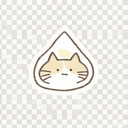
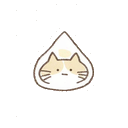
灵感备忘全量优化：贴纸透明化 + 未来日期拦截 + 心情持久化 + 浅绿FAB + 多贴纸 + 书翻开效果
# 一、BUG 修复
1. 未来日期权限：noteCalendarHTML 标记 ds>today 的日期为 .future，openMoodPicker 入口加 if(date>isoToday()) return，
   点击处理判断 classList.contains('future') 直接 return。未来日期不再可设置心情。
2. 心情持久化：bootstrap 中 data=cloudData 后，从 localStorage[CONFIG.businessKey] 合并 __noteMoods 兜底，
   防止 saveCloud 800ms 防抖期内设置的心情在刷新后被云端旧数据覆盖丢失。

# 二、视觉与功能优化
3. 贴纸背景透明化：6 张 mood-*.png 经 flood-fill 边界种子去底色（threshold 22，多参考色处理渐变），
   角点 alpha=0，中心 alpha=255，与页面底色自然融合。
4. 列表卡片贴纸放大：.jn-wk-cat 从 16px 扩到 30px，新增 .jn-wk-stickers flex column 容器将贴纸与拍立得照片
   竖向堆叠（避免与文字挤占），并支持 jnWeekStickerHTML 按 id 在 SHOP_ICON_MAP 里轮换（用户可设置 stickerId 覆盖），
   偶数 id 无图时再叠一个 .jn-wk-stk2 小贴纸，整体有手账随手贴感。
5. FAB 改浅绿：背景 #D4E0CE + 同色系边框 #9DB79F + 深绿字 #4A5E4A + 浅绿阴影，沿用项目既有 #7A9A7E 系。
6. 书翻开效果增强：box-shadow 增加左侧负 y 偏移层（前一页填满顶部空隙）+ 顶/底各 3 层米黄书脊边缘，
   移动端 22 层 / 桌面 26 层柔和外阴影。右封皮仍为低饱和浅绿。
7. 贴纸透明 CSS 配合：mood-corner 与 jn-wk-cat 均为 object-fit:contain，透明角与页面底色无缝融合。

# 三、回归
- 之前的小情绪面板、详情页日记字体（Kaiti）、页脚虚线沉底、底部返回隐藏均无影响
- FAB 仍为 position:fixed 右下 88px（nav-h 72 + 16），滚动不跟随

# 四、验证（Playwright 390x844, ?wb=1, 拦截云端写）
- FAB bg=rgb(212,224,206) 浅绿 ✓
- 日历 28 天未来日期标记 .future，1 天 today ✓
- 未来日期点击不打开心情选择器 ✓
- 过去日期点选心情：贴纸 41x41 填满格子、日期数字隐藏 ✓
- 时间轴贴纸 30x30px，.jn-wk-stickers flex-direction:column ✓
- 详情 .nd-sheet box-shadow 22 层，含绿封皮 rgb(122,154,126) + 顶边 0 -1px + 左上 -1px -2px ✓
- 云端 -g1 复核：test 日期 2026-09-01 不在云端，__noteMoods 内仅含 2026-09-02 sleepy（用户手机真实数据）→ 无测试污染

diff --git a/index.html b/index.html
@@ -1238,6 +1238,7 @@
   .jn-cal-day.sel { background: rgba(122,154,126,.14); color: #4E5E50; font-weight: 500; }
   .jn-cal-day.sel::after { content:""; position:absolute; inset:3px; border-radius:50%; border:1px dashed rgba(122,154,126,.7); }
   .jn-cal-day.other { color: transparent; pointer-events: none; }
+  .jn-cal-day.future { pointer-events: none; opacity: 0.32; color: #B8A99A; }
   .jn-cal-day.has-mood { border-radius: 12px; }
   .jn-cal-day .mood-corner { position:absolute; inset:0; width:100%; height:100%; object-fit:contain; pointer-events:none; }
   /* 心情选择面板 */
@@ -1258,10 +1259,10 @@
     background: transparent; border-radius: 999px; color: #9C8B7A; font-size: 12px; cursor: pointer; }
   /* 悬浮新建 */
   .jn-fab { position: fixed; right: 18px; bottom: calc(var(--nav-h) + 16px + env(safe-area-inset-bottom)); z-index: 40;
-    width: 52px; height: 52px; border-radius: 50%; border: 1px solid #D8CBB4; background: #FBF8F1;
-    color: #5C4A3A; display: grid; place-items: center; box-shadow: 0 3px 10px rgba(61,50,38,.12);
+    width: 52px; height: 52px; border-radius: 50%; border: 1px solid #9DB79F; background: #D4E0CE;
+    color: #4A5E4A; display: grid; place-items: center; box-shadow: 0 3px 10px rgba(74,94,74,.16);
     cursor: pointer; transition: transform .12s, box-shadow .15s; }
-  .jn-fab:active { transform: scale(.92); box-shadow: 0 1px 5px rgba(61,50,38,.10); }
+  .jn-fab:active { transform: scale(.92); box-shadow: 0 1px 5px rgba(74,94,74,.12); }
   @media (min-width: 720px){ .jn-fab { right: 26px; bottom: calc(var(--nav-h) + 20px + env(safe-area-inset-bottom)); } }
 
   /* ============================================================
@@ -1303,8 +1304,11 @@
   .jn-wk-thumb { flex:0 0 58px; width:58px; height:46px; object-fit:cover; border-radius:2px;
     background:#fff; padding:3px 3px 9px; border:1px solid #E8DFD0;
     box-shadow:0 2px 5px rgba(92,74,58,.10); margin-top:2px; transform:rotate(-1.2deg); }
-  .jn-wk-cat { flex:0 0 16px; width:16px; height:16px; object-fit:contain; margin-top:3px;
-    filter:drop-shadow(1px 1px 2px rgba(92,74,58,.10)); }
+  .jn-wk-stickers { flex:0 0 auto; display:flex; flex-direction:column; align-items:center; gap:6px; margin-top:2px; }
+  .jn-wk-cat { width:30px; height:30px; object-fit:contain;
+    filter:drop-shadow(1px 1px 2px rgba(92,74,58,.10));
+    transform:rotate(calc(var(--rot,0) * 1deg)); }
+  .jn-wk-stk2 { width:22px; height:22px; object-fit:contain; opacity:.85; transform:rotate(var(--rot2,4deg)); filter:drop-shadow(1px 1px 1.5px rgba(92,74,58,.08)); }
   .jn-wk-tag { flex:0 0 auto; font-size:10.5px; color:#9C8B7A; background:#F0E8DC; border-radius:5px; padding:1px 7px; }
   .jn-wk-fam { flex:0 0 auto; font-size:10.5px; color:#9C8B7A; }
   .jn-wk-acts { flex:0 0 auto; display:flex; gap:2px; margin-left:2px; }
@@ -1329,20 +1333,36 @@
     animation:ndFlip .5s cubic-bezier(.36,.06,.2,1) both;
     border-radius:0 14px 14px 0;
     box-shadow:
+      /* 左：前一页米黄书页（多页叠加 + 负 y 偏移填满顶部空隙） */
       -1px 0 0 #F0E7D4, -2px 0 0 #EAE0CB, -3px 0 0 #E4D9C2, -4px 0 0 #DED2B9,
+      -1px -2px 0 #F0E7D4, -2px -3px 0 #EAE0CB, -3px -4px 0 #E4D9C2,
       -7px 3px 12px rgba(61,50,38,.07),
+      /* 右：内页厚度 */
       1px 0 0 #F4EDDD, 2px 0 0 #EFE6D3, 3px 0 0 #E9DEC8, 4px 0 0 #E3D7BE, 5px 0 0 #DDD0B5,
+      /* 右：低饱和浅绿封皮边缘 */
       6px 0 0 #A9BFA8, 7px 0 0 #93AE97, 8px 0 0 #7A9A7E, 9px 0 0 #6E8C72,
+      /* 顶/底：书脊边缘（米黄） */
+      0 -1px 0 #F0E7D4, 0 -2px 0 #EAE0CB, 0 -3px 0 #E4D9C2,
+      0 1px 0 #F0E7D4, 0 2px 0 #EAE0CB, 0 3px 0 #E4D9C2,
+      /* 柔和外阴影 */
       16px 12px 34px rgba(61,50,38,.15),
       inset -10px 0 14px -10px rgba(61,50,38,.10); }
   @media (min-width:720px){
     .nd-overlay { align-items:center; padding:30px 24px 30px 30px; }
     .nd-sheet { height:88vh; max-width:620px; border-radius:0 16px 16px 0; overflow:hidden;
       box-shadow:
+        /* 左：前一页米黄书页（多页叠加 + 负 y 填满顶部空隙） */
         -1px 0 0 #F0E7D4, -2px 0 0 #EAE0CB, -3px 0 0 #E4D9C2, -4px 0 0 #DED2B9,
+        -1px -2px 0 #F0E7D4, -2px -3px 0 #EAE0CB, -3px -4px 0 #E4D9C2,
         -9px 4px 16px rgba(61,50,38,.08),
+        /* 右：内页厚度 */
         1px 0 0 #F4EDDD, 2px 0 0 #EFE6D3, 3px 0 0 #E9DEC8, 4px 0 0 #E3D7BE, 5px 0 0 #DDD0B5,
+        /* 右：低饱和浅绿封皮边缘 */
         6px 0 0 #A9BFA8, 7px 0 0 #93AE97, 8px 0 0 #7A9A7E, 9px 0 0 #6E8C72,
+        /* 顶/底：书脊边缘 */
+        0 -1px 0 #F0E7D4, 0 -2px 0 #EAE0CB, 0 -3px 0 #E4D9C2,
+        0 1px 0 #F0E7D4, 0 2px 0 #EAE0CB, 0 3px 0 #E4D9C2,
+        /* 柔和外阴影 */
         20px 16px 54px rgba(61,50,38,.16),
         inset -12px 0 16px -12px rgba(61,50,38,.10); }
   }
@@ -3491,11 +3511,11 @@ function jnWeekEntryHTML(m, x){
   const familyTag = creatorRole === "family" ? `<span class="jn-wk-fam">\u5bb6\u5c5e</span>` : '';
   const pin = canEdit ? `<button class="pin-btn js-pin ${x.pinned?'on':''}" data-id="${x.id}" title="\u6536\u85cf">${icon("star",13)}</button>` : '';
   const del = canEdit ? `<button class="del js-del" data-id="${x.id}" title="\u5220\u9664">${icon("trash",13)}</button>` : '';
-  const cat = noteCatPNG(x.category, x.mood, Number(x.id)||0);
   const body = (x.content || x.note || '').trim();
   const flat = body.replace(/\n+/g, ' ').trim();
   const sum = flat ? (flat.length > 64 ? flat.slice(0, 64) + '\u2026' : flat) : '';
   const tags = [x.category, x.mood].filter(Boolean).slice(0,1).map(s=>`<span class="jn-wk-tag">${esc(s)}</span>`).join('');
+  const stk = jnWeekStickerHTML(x);
   return `<div class="jn-wk-entry" data-note-open="${x.id}" data-note-key="${attr(m.key)}">`
     + `<span class="jn-wk-dot"></span>`
     + `<div class="jn-wk-main">`
@@ -3503,9 +3523,30 @@ function jnWeekEntryHTML(m, x){
       + (sum ? `<div class="jn-wk-sum">${esc(sum)}</div>` : '')
       + `<div class="jn-wk-meta">${tags}${familyTag}</div>`
     + `</div>`
-    + (x.image ? `<img class="jn-wk-thumb" src="${attr(x.image)}" alt="" loading="lazy">` : '')
-    + (cat.src ? `<img class="jn-wk-cat" src="${cat.src}" alt="">` : '')
+    + `<div class="jn-wk-stickers">`
+      + (x.image ? `<img class="jn-wk-thumb" src="${attr(x.image)}" alt="" loading="lazy">` : '')
+      + stk
+    + `</div>`
     + `<span class="jn-wk-acts">${pin}${del}</span></div>`;
+}
+
+/* 时间轴贴纸：优先用该笔记已选贴纸（stickerId），否则按 id 在系统贴纸里轮换，模拟手账随手贴 */
+function jnWeekStickerHTML(x){
+  const ids = Object.keys(SHOP_ICON_MAP);
+  if(!ids.length) return '';
+  const id = Number(x.id) || 0;
+  const chosen = x.stickerId && SHOP_ICON_MAP[x.stickerId] ? x.stickerId : ids[id % ids.length];
+  const main = SHOP_ICON_MAP[chosen] || SHOP_ICON_MAP[ids[0]];
+  const rot = noteRot(id, -8, 8);
+  let html = `<img class="jn-wk-cat" style="--rot:${rot}" src="${attr(main)}" alt="">`;
+  if(!x.image && (id % 3 === 0)){
+    const second = SHOP_ICON_MAP[ids[(id + 7) % ids.length]];
+    if(second && second !== main){
+      const rot2 = noteRot(id + 11, -6, 10);
+      html += `<img class="jn-wk-stk2" style="--rot2:${rot2}" src="${attr(second)}" alt="">`;
+    }
+  }
+  return html;
 }
 
 function journalNoteHTML(m, x, acts, recAttrs, familyTag, customBlock){
@@ -3597,8 +3638,9 @@ function noteCalendarHTML(key, items){
   for(let day=1; day<=daysInMonth; day++){
     const ds = `${y}-${String(m+1).padStart(2,'0')}-${String(day).padStart(2,'0')}`;
     const isToday = ds === today;
+    const isFuture = ds > today;
     const mood = moods[ds];
-    const cls = ['jn-cal-day', isToday?'today':'', ds===_noteSelDate?'sel':'', mood?'has-mood':''].filter(Boolean).join(' ');
+    const cls = ['jn-cal-day', isToday?'today':'', ds===_noteSelDate?'sel':'', mood?'has-mood':'', isFuture?'future':''].filter(Boolean).join(' ');
     grid += `<div class="${cls}" data-cal-d="${ds}">${mood?`<img class="mood-corner" src="${mood.src}" alt="">`:day}</div>`;
   }
   const count = items.length;
@@ -3615,6 +3657,7 @@ function setNoteMood(date, mood){
   persist();
 }
 function openMoodPicker(key, date){
+  if(date > isoToday()) return;   // 未来日期禁止设置心情
   _noteSelDate = date;
   const moods = noteMoods();
   const cur = (data.__noteMoods || {})[date];
@@ -3937,7 +3980,7 @@ function wireModule(key){
   const add=$("#btn-add"); if(add) add.onclick=()=>{ const am=modOf(key); if(am && am.type==='note'){ openNoteDetail(key, null, true); } else { openEditor(key,null); } };
   if(m.type==="note"){
     $("#screen").querySelectorAll(".jn-cal-day[data-cal-d]").forEach(el=>{
-      el.onclick = () => openMoodPicker(key, el.dataset.calD);
+      el.onclick = () => { if(el.classList.contains('future')) return; openMoodPicker(key, el.dataset.calD); };
     });
   }
 
@@ -6844,6 +6887,15 @@ async function bootstrap() {
   }
   if(cloudData) {
     data = cloudData;
+    // 心情持久化兜底：本地刚设的心情（saveCloud 800ms 防抖期间）若还未来得及上云，
+    // 这里把 localStorage 里的 __noteMoods 合并进 data，避免刷新后丢失
+    try {
+      const localBiz = JSON.parse(localStorage.getItem(CONFIG.businessKey) || "{}");
+      if(localBiz.__noteMoods && Object.keys(localBiz.__noteMoods).length){
+        if(!data.__noteMoods) data.__noteMoods = {};
+        Object.assign(data.__noteMoods, localBiz.__noteMoods);
+      }
+    } catch(e){}
     store._cloudMerged = true;   // 标记为已与云端合并，此后 guard 不再误拦保存
     // 迁移：本机曾用独立 localStorage 存的贴纸 → 并入云端 data.__stickerPlacements
     let stickerMigrated = false;
